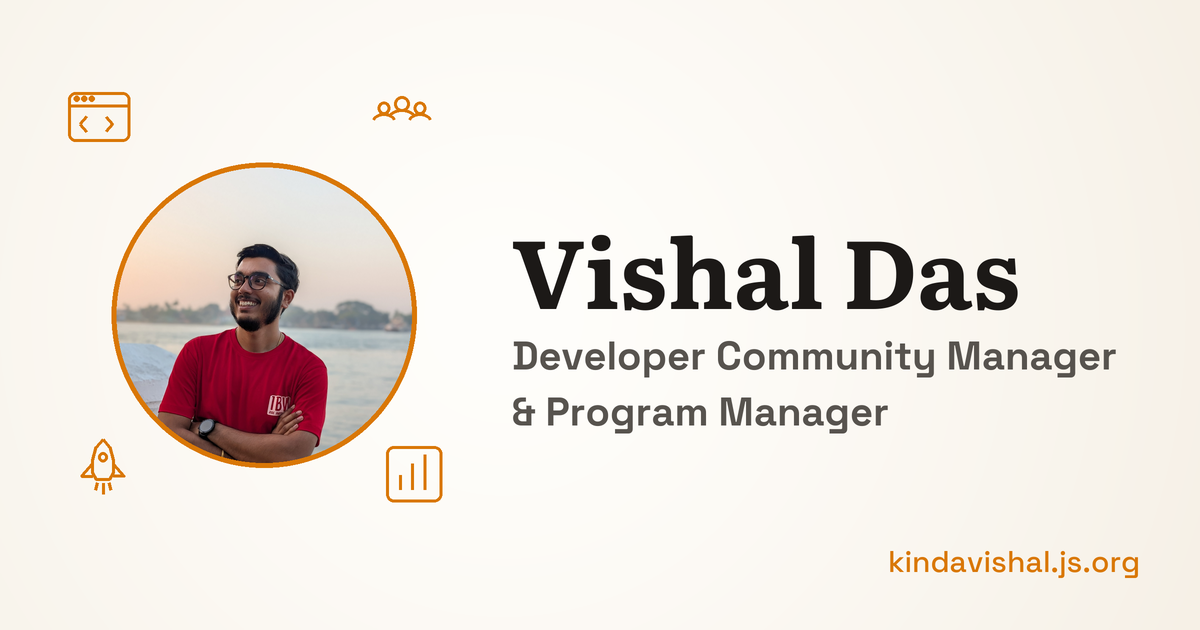
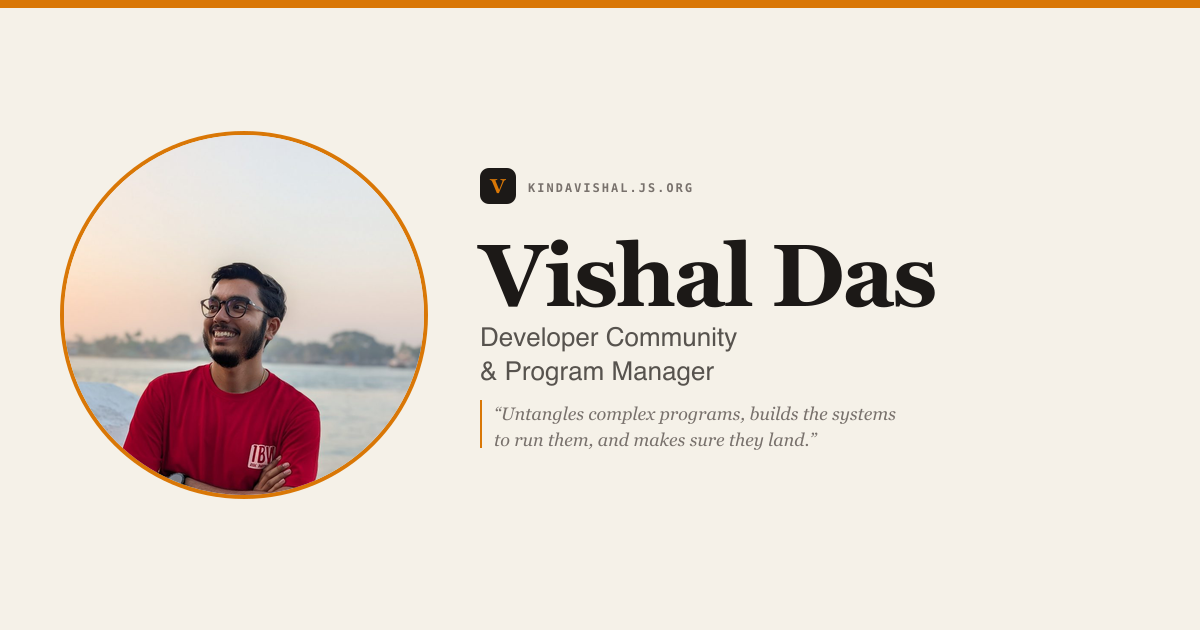
preview-card: regenerate from design 2a with updated title

diff --git a/scripts/preview-card.js b/scripts/preview-card.js
@@ -1,0 +1,110 @@
+#!/usr/bin/env node
+'use strict';
+
+/**
+ * Regenerates assets/preview-card.png — the shared social preview used for the
+ * homepage and /writing (per-post cards live in assets/og/ and are generated
+ * from build.js).
+ *
+ * Design source: claude.ai/design "Link Preview" project, variant 2a — cream
+ * editorial card with the portrait on the left and the byline on the right.
+ * Text set with libvips' system fonts (Georgia / Helvetica / Menlo), same as
+ * ogSvg() in build.js.
+ *
+ *   node scripts/preview-card.js
+ */
+
+const fs = require('fs');
+const path = require('path');
+const sharp = require('sharp');
+
+const ROOT = path.join(__dirname, '..');
+const SRC = path.join(ROOT, 'assets', 'profile.jpg');
+const OUT = path.join(ROOT, 'assets', 'preview-card.png');
+
+const W = 1200;
+const H = 630;
+
+const SERIF = "Georgia, 'Times New Roman', serif";
+const SANS  = 'Helvetica, Arial, sans-serif';
+const MONO  = 'Menlo, Consolas, monospace';
+
+const cream     = '#F5F1E8';
+const amber     = '#D97706';
+const ink       = '#1C1917';
+const inkMuted  = '#57534E';
+const inkFaint  = '#78716C';
+
+// Portrait: 360x360 circle at (64, 135) with a 4px amber ring.
+const PORTRAIT = 360;
+const P_X = 64;
+const P_Y = 135;
+const P_CX = P_X + PORTRAIT / 2;
+const P_CY = P_Y + PORTRAIT / 2;
+
+// Right column starts after portrait + 56px gap.
+const R_X = P_X + PORTRAIT + 56;
+
+// Vertical stack (roughly matches the design's flex column, 18px gap):
+//   logo row (36) → name (88) → role (26 × 2 lines) → quote (18 × 2 lines).
+const CONTENT_TOP = 168;
+
+function bgSvg() {
+  const logoY = CONTENT_TOP;
+  const nameBase = CONTENT_TOP + 36 + 18 + 84;             // ~ 306
+  const roleTop = nameBase + 18;                           // ~ 324
+  const role1 = roleTop + 22;
+  const role2 = role1 + 34;
+  const quoteTop = role2 + 24;
+  const quote1 = quoteTop + 16;
+  const quote2 = quote1 + 26;
+
+  return `<svg xmlns="http://www.w3.org/2000/svg" width="${W}" height="${H}">
+  <rect width="${W}" height="${H}" fill="${cream}"/>
+  <rect x="0" y="0" width="${W}" height="8" fill="${amber}"/>
+
+  <!-- Logo tile + URL -->
+  <rect x="${R_X}" y="${logoY}" width="36" height="36" rx="9" fill="${ink}"/>
+  <text x="${R_X + 18}" y="${logoY + 25}" font-family="${SERIF}" font-size="20" font-weight="700" fill="${amber}" text-anchor="middle">V</text>
+  <text x="${R_X + 48}" y="${logoY + 24}" font-family="${MONO}" font-size="12" font-weight="600" fill="${inkFaint}" letter-spacing="2">KINDAVISHAL.JS.ORG</text>
+
+  <!-- Name -->
+  <text x="${R_X}" y="${nameBase}" font-family="${SERIF}" font-size="88" font-weight="700" fill="${ink}" letter-spacing="-2.4">Vishal Das</text>
+
+  <!-- Role -->
+  <text x="${R_X}" y="${role1}" font-family="${SANS}" font-size="26" font-weight="500" fill="${inkMuted}">Developer Community</text>
+  <text x="${R_X}" y="${role2}" font-family="${SANS}" font-size="26" font-weight="500" fill="${inkMuted}">&amp; Program Manager</text>
+
+  <!-- Pull quote (amber left rule + italic serif) -->
+  <rect x="${R_X}" y="${quoteTop - 4}" width="2" height="48" fill="${amber}"/>
+  <text x="${R_X + 14}" y="${quote1}" font-family="${SERIF}" font-style="italic" font-size="18" fill="${inkFaint}">&#8220;Untangles complex programs, builds the systems</text>
+  <text x="${R_X + 14}" y="${quote2}" font-family="${SERIF}" font-style="italic" font-size="18" fill="${inkFaint}">to run them, and makes sure they land.&#8221;</text>
+
+  <!-- Amber ring around the portrait (portrait itself is composited on top) -->
+  <circle cx="${P_CX}" cy="${P_CY}" r="${PORTRAIT / 2 + 2}" fill="none" stroke="${amber}" stroke-width="4"/>
+</svg>`;
+}
+
+const maskSvg = () => `<svg xmlns="http://www.w3.org/2000/svg" width="${PORTRAIT}" height="${PORTRAIT}">
+  <circle cx="${PORTRAIT / 2}" cy="${PORTRAIT / 2}" r="${PORTRAIT / 2}" fill="#fff"/>
+</svg>`;
+
+async function main() {
+  const portrait = await sharp(SRC)
+    .resize(PORTRAIT, PORTRAIT, { fit: 'cover', position: 'top' })
+    .composite([{ input: Buffer.from(maskSvg()), blend: 'dest-in' }])
+    .png()
+    .toBuffer();
+
+  await sharp(Buffer.from(bgSvg()))
+    .composite([{ input: portrait, left: P_X, top: P_Y }])
+    .png()
+    .toFile(OUT);
+
+  console.log(`  wrote ${path.relative(ROOT, OUT)}`);
+}
+
+main().catch((err) => {
+  console.error(`\npreview-card failed: ${err.message}\n`);
+  process.exit(1);
+});
